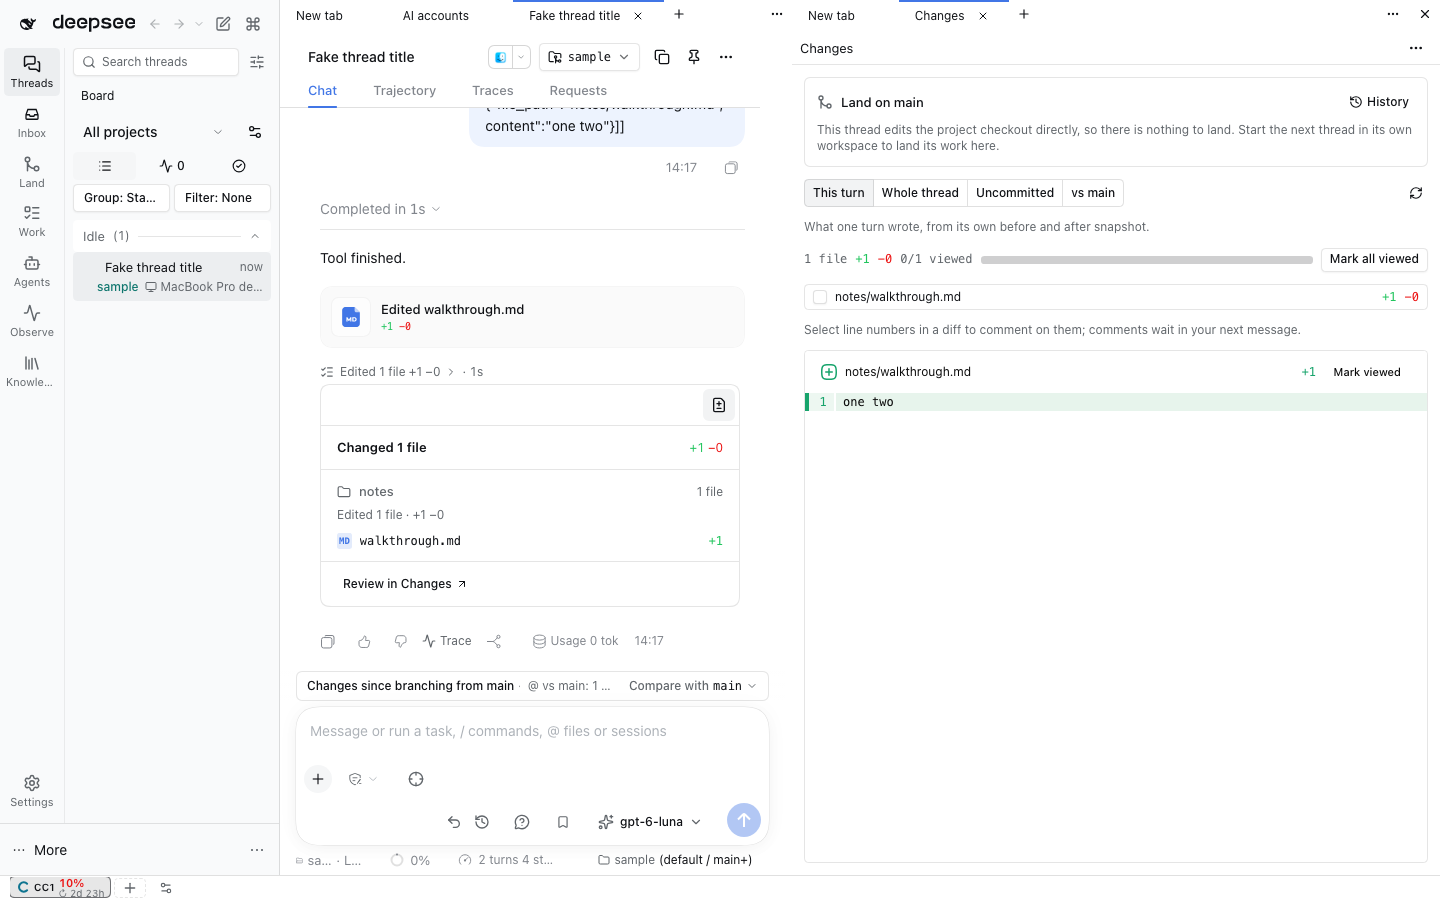
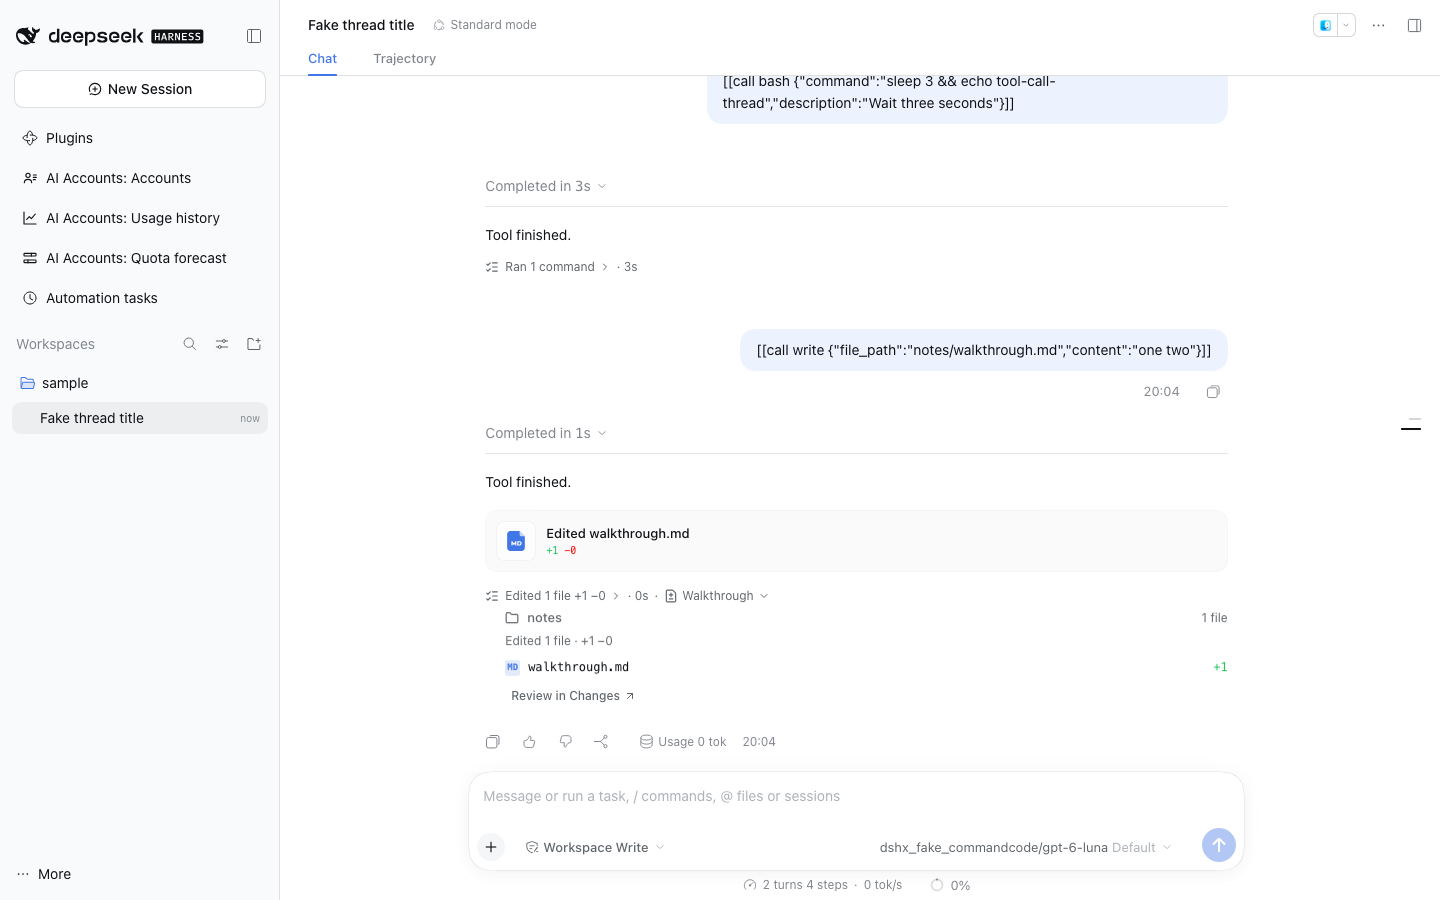
fix(turn-summary): make the walkthrough a labelled toggle in the turn summary row
The walkthrough rendered a plugin-ui ActivityDock, whose folded state is one
32px icon button. Under the last turn of a thread that button is the only thing
between the transcript and the composer, so a folded walkthrough read as an
orphaned icon floating above the chat composer, and the open card pushed a
second bordered panel into the same slot.

Move it into the summary row: the row that already says 'Edited 3 files · ran 6
commands · 1m 12s' now ends with a 'Walkthrough' toggle beside the file-diff
icon, and the grouped file list with Review in Changes opens under that row,
closed by default. Nothing floats above the composer, and the toggle keeps its
label when folded. The journey opens the toggle before naming the written
file.

diff --git a/plugins/@dshfiles/turn-summary/src/turn-walkthrough.tsx b/plugins/@dshfiles/turn-summary/src/turn-walkthrough.tsx
@@ -1,69 +1,47 @@
-import { ActivityDock, DockChanges } from '@dshfiles/plugin-ui/components/motion/activity-dock'
+import { DockChanges } from '@dshfiles/plugin-ui/components/motion/activity-dock'
 import { Button } from '@dshfiles/plugin-ui/components/ui/button'
-import { ArrowUpRightIcon, FileDiffIcon, FolderIcon } from '@dshfiles/plugin-ui/icons'
-import { useState } from 'react'
+import { ArrowUpRightIcon, ChevronDownIcon, ChevronRightIcon, FileDiffIcon, FolderIcon } from '@dshfiles/plugin-ui/icons'
 import type { TurnActivitySummary } from './turn-activity.js'
 import { TurnWalkthroughModel } from './turn-walkthrough-model.js'
 
-const TAB = 'changes'
+/** Whether the turn edited files, so the summary row offers its walkthrough at all. */
+export const hasWalkthrough = (summary: TurnActivitySummary): boolean => summary.editedFileStats.length > 0
 
 /**
- * The walkthrough card under a turn that edited files: the files by folder, each folder's one-line summary, and the
- * way into the Changes view for that turn. It starts open; its icon folds it to one button.
+ * The walkthrough toggle inside the turn summary row: a labelled control, so a closed walkthrough is never a lone
+ * icon floating above the composer.
  */
-export const TurnWalkthrough = (props: {
-  readonly summary: TurnActivitySummary
-  readonly turn: number
-  readonly openChanges: (() => void) | undefined
-}): JSX.Element | null => {
-  const [open, setOpen] = useState<string | null>(TAB)
-  const files = props.summary.editedFileStats
-  if (files.length === 0) return null
-  const groups = TurnWalkthroughModel.groups(files)
-  const added = files.reduce((total, file) => total + file.added, 0)
-  const removed = files.reduce((total, file) => total + file.removed, 0)
-  return (
-    <div className="dshx-root dshx:@container dshx:flex dshx:w-full dshx:min-w-0" data-dshfiles-turn-walkthrough="">
-      <ActivityDock
-        aria-label={`Turn ${String(props.turn)} walkthrough`}
-        value={open}
-        onValueChange={setOpen}
-        panelWidth={420}
-        className="dshx:mr-auto dshx:ml-0 dshx:shadow-none"
-        tabs={[
-          {
-            id: TAB,
-            label: 'Walkthrough',
-            icon: <FileDiffIcon />,
-            title: `Changed ${String(files.length)} ${files.length === 1 ? 'file' : 'files'}`,
-            meta:
-              added + removed > 0 ? (
-                <>
-                  <span className="dshx:text-success">+{added}</span> <span className="dshx:text-destructive">−{removed}</span>
-                </>
-              ) : undefined,
-            content: (
-              <DockChanges
-                className="dshx:gap-3"
-                groups={groups.map(group => ({
-                  id: group.directory,
-                  label: group.directory,
-                  icon: <FolderIcon />,
-                  hint: group.summary,
-                  files: group.files,
-                }))}
-              />
-            ),
-            footer:
-              props.openChanges === undefined ? undefined : (
-                <Button type="button" variant="ghost" size="xs" onClick={props.openChanges}>
-                  Review in Changes
-                  <ArrowUpRightIcon aria-hidden className="dshx:size-3" />
-                </Button>
-              ),
-          },
-        ]}
-      />
-    </div>
-  )
-}
+export const TurnWalkthroughToggle = (props: { readonly open: boolean; readonly onToggle: () => void }): JSX.Element => (
+  <button
+    aria-expanded={props.open}
+    className="dshx:flex dshx:shrink-0 dshx:items-center dshx:gap-1 dshx:hover:text-foreground"
+    onClick={props.onToggle}
+    type="button"
+  >
+    <FileDiffIcon aria-hidden className="dshx:size-3.5 dshx:shrink-0" />
+    <span>Walkthrough</span>
+    {props.open ? <ChevronDownIcon aria-hidden className="dshx:size-3" /> : <ChevronRightIcon aria-hidden className="dshx:size-3" />}
+  </button>
+)
+
+/** The opened walkthrough: the changed files by folder and the way into that turn's Changes view. */
+export const TurnWalkthroughList = (props: { readonly summary: TurnActivitySummary; readonly openChanges: (() => void) | undefined }): JSX.Element => (
+  <div className="dshx:flex dshx:min-w-0 dshx:flex-col dshx:items-start dshx:gap-2 dshx:pl-5" data-dshfiles-turn-walkthrough="">
+    <DockChanges
+      className="dshx:w-full dshx:gap-3"
+      groups={TurnWalkthroughModel.groups(props.summary.editedFileStats).map(group => ({
+        id: group.directory,
+        label: group.directory,
+        icon: <FolderIcon />,
+        hint: group.summary,
+        files: group.files,
+      }))}
+    />
+    {props.openChanges === undefined ? null : (
+      <Button type="button" variant="ghost" size="xs" onClick={props.openChanges}>
+        Review in Changes
+        <ArrowUpRightIcon aria-hidden className="dshx:size-3" />
+      </Button>
+    )}
+  </div>
+)

diff --git a/plugins/@dshfiles/turn-summary/src/turn-summary-line.tsx b/plugins/@dshfiles/turn-summary/src/turn-summary-line.tsx
@@ -6,7 +6,7 @@ import { Fragment, useState, useSyncExternalStore, type ReactNode } from 'react'
 import { turnSummarySettings } from './settings.js'
 import { TURN_ACTIVITY_KEY } from './turn-activity-node.js'
 import { TurnActivity, type TurnActivitySummary, type TurnSegment } from './turn-activity.js'
-import { TurnWalkthrough } from './turn-walkthrough.js'
+import { hasWalkthrough, TurnWalkthroughList, TurnWalkthroughToggle } from './turn-walkthrough.js'
 
 type OpenList = 'files' | 'commands' | 'failures'
 
@@ -80,6 +80,7 @@ export const TurnSummaryLine = (props: {
   const summary = useSyncExternalStore(source.subscribe, source.getSnapshot)
   const settings = useSettings(turnSummarySettings).value
   const [open, setOpen] = useState<OpenList | undefined>(undefined)
+  const [walkthroughOpen, setWalkthroughOpen] = useState(false)
   if (summary === undefined || settings?.enabled === false || TurnActivity.isEmpty(summary)) return null
   const segments = TurnActivity.segments(summary, {
     includeReads: settings?.includeReads !== false,
@@ -95,6 +96,7 @@ export const TurnSummaryLine = (props: {
   const end = props.turn.end?.time
   const duration = settings?.duration !== false && start !== undefined && end !== undefined ? TurnActivity.duration(end - start) : undefined
   const changesSeq = summary.changesSeq
+  const walkthrough = settings?.walkthrough !== false && hasWalkthrough(summary)
   const label = (segment: TurnSegment, index: number): string => (index === 0 ? segment.text.charAt(0).toUpperCase() + segment.text.slice(1) : segment.text)
   const segmentView = (segment: TurnSegment, index: number): ReactNode => {
     const list = segment.key === 'files' || segment.key === 'commands' ? segment.key : undefined
@@ -135,15 +137,20 @@ export const TurnSummaryLine = (props: {
             {duration}
           </span>
         )}
+        {walkthrough ? (
+          <>
+            <span aria-hidden>·</span>
+            <TurnWalkthroughToggle open={walkthroughOpen} onToggle={() => setWalkthroughOpen(current => !current)} />
+          </>
+        ) : null}
       </div>
       {open === 'files' && <FileList openFile={props.openFile} summary={summary} />}
       {open === 'commands' && <CommandList onlyFailed={false} summary={summary} />}
       {open === 'failures' && canList && <CommandList onlyFailed summary={summary} />}
-      {settings?.walkthrough !== false && (
-        <TurnWalkthrough
+      {walkthrough && walkthroughOpen && (
+        <TurnWalkthroughList
           openChanges={changesSeq === undefined ? undefined : () => props.openChanges({ seq: changesSeq, turn: props.turn.turn })}
           summary={summary}
-          turn={props.turn.turn}
         />
       )}
     </div>

diff --git a/tooling/dshx/e2e/support/plugin-journeys/turn-summary.steps.ts b/tooling/dshx/e2e/support/plugin-journeys/turn-summary.steps.ts
@@ -29,12 +29,14 @@ When('the fake model writes a file in a fresh workspace', async ({ page }: { pag
   await runInFreshWorkspace(page, WRITE_FILE)
 })
 
-Then('the finished turn shows a walkthrough card naming the written file', async ({ page }: { page: Page }) => {
-  const card = page.locator('[data-dshfiles-turn-walkthrough]')
+Then('the finished turn opens a walkthrough naming the written file', async ({ page }: { page: Page }) => {
+  const toggle = page.getByRole('button', { name: 'Walkthrough' })
   await recordAssertion(page, 'turn-summary-walkthrough-names-written-file', async () => {
-    await expect(card).toBeVisible({ timeout: 60_000 })
-    await expect(card).toContainText('Changed 1 file')
-    await expect(card).toContainText('walkthrough.md')
+    await expect(toggle).toBeVisible({ timeout: 60_000 })
+    await expect(toggle).toHaveAttribute('aria-expanded', 'false')
+    await toggle.click()
+    await expect(toggle).toHaveAttribute('aria-expanded', 'true')
+    await expect(page.locator('[data-dshfiles-turn-walkthrough]')).toContainText('walkthrough.md')
   })
   await finishJourneyAssertions(page)
 })

diff --git a/plugins/@dshfiles/turn-summary/src/settings.ts b/plugins/@dshfiles/turn-summary/src/settings.ts
@@ -15,7 +15,7 @@ export const turnSummarySettings = defineSettings({
     openLists: Schema.boolean().default(true).description('Let the edited-file and command counts open their lists; each file opens in the editor.'),
     walkthrough: Schema.boolean()
       .default(true)
-      .description('After a turn that edited files, show a walkthrough card: the changed files by folder and a link to the Changes view.'),
+      .description('After a turn that edited files, show a walkthrough row: the changed files by folder and a link to the Changes view.'),
   }),
   applies: 'live',
 })

diff --git a/plugins/@dshfiles/turn-summary/README.md b/plugins/@dshfiles/turn-summary/README.md
@@ -2,7 +2,7 @@
 
 ![A summary line under each finished turn](docs/screenshots/turn-summary-line.png)
 
-![A walkthrough card after a turn that changed code](docs/screenshots/turn-walkthrough.png)
+![A walkthrough opened under a turn that changed code](docs/screenshots/turn-walkthrough.png)
 
 A footer under each finished turn that says what the agent did with tools:
 
@@ -14,10 +14,10 @@ A footer under each finished turn that says what the agent did with tools:
 - The red **failure count** opens the failed commands and how each ended: `exit 1`, `signal SIGKILL`, `no exit code`, or `error` when the tool rejected the call.
 - **Duration** is the turn's wall time, from `turn/start` to `turn/end`.
 
-After a turn that edited files, a **walkthrough card** (plugin-ui `ActivityDock` with `DockChanges`) lists the changed
-files by folder, each folder with a one-line summary (`Edited 2 files · +40 −3`), and **Review in Changes** opens that
-turn's changed-files review in the right pane: pulls-review's Changes facet when it is loaded, else the native review
-tab. Its icon folds it to one button.
+After a turn that edited files, a **Walkthrough** row opens a grouped view of the changed files by folder, each folder
+with a one-line summary (`Edited 2 files · +40 −3`), and **Review in Changes** opens that turn's changed-files review in
+the right pane: pulls-review's Changes facet when it is loaded, else the native review tab. It is a row in the turn
+footer, closed by default, so nothing floats above the composer.
 
 Built with dshx (no port). Run `pnpm build`, `pnpm test` and `pnpm typecheck` from this package.
 
@@ -34,7 +34,7 @@ All apply live.
 | `testResults`  | `true`  | Show passed / total tests from the last test-runner summary.   |
 | `duration`     | `true`  | Show how long the turn took.                                   |
 | `openLists`    | `true`  | Let the edited-file and command counts open their lists.       |
-| `walkthrough`  | `true`  | Show the walkthrough card after a turn that edited files.      |
+| `walkthrough`  | `true`  | Show the walkthrough row after a turn that edited files.       |
 
 ## How it works
 

diff --git a/docs/ade-ux/migration-map.md b/docs/ade-ux/migration-map.md
@@ -480,7 +480,7 @@ cards inline in the active thread; 25 features.
 | chat/windowed-transcript: Open a thread on its latest messages | transcriptCard | transcript: windowed rendering |
 | html-render/html-page-card: Agent-published HTML page as a sandboxed card | transcriptCard | transcript: html_render card |
 | html-render/html-preview-card: Workspace HTML file shown as a sandboxed card | transcriptCard | transcript: html_preview card |
-| jj-integration/turn-end-integrate: Integrate from the end of a turn | transcriptCard | transcript: turn tail › Land on main |
+| jj-integration/turn-end-integrate: Integrate from the end of a turn | transcriptCard | transcript: turn tail › Land on main › revisions |
 | secret-catalog/agent-secret-request: Let an agent ask the user to store a secret | transcriptCard | transcript: turn tail › Secret request |
 | secret-catalog/backlog-jev-chat-setup: Set up a Jev key from chat | transcriptCard | transcript: turn tail › Set up missing secrets |
 | test-runs/test-run-card: Vitest runs as a test-results card | transcriptCard | transcript: Vitest results card |
@@ -488,7 +488,7 @@ cards inline in the active thread; 25 features.
 | tool-meta/tool-call-timing: Start time and duration on every tool call | transcriptCard | transcript: tool call timing |
 | traces/trace-transcript-links: Span ↔ transcript links | transcriptCard | transcript: Open the trace of turn |
 | turn-summary/turn-summary-line: A summary footer under each finished turn | transcriptCard | transcript: turn summary footer |
-| turn-summary/turn-walkthrough: A walkthrough card after a turn that changed code | transcriptCard | transcript: turn walkthrough card |
+| turn-summary/turn-walkthrough: A walkthrough under a turn that changed code | transcriptCard | transcript: turn walkthrough row |
 | user-questions/answered-question-stays-closed: An answered question form stays closed while its reply waits for admission | transcriptCard | transcript: question form |
 | user-questions/markdown-question: Markdown questions with sandboxed HTML previews | transcriptCard | transcript: question form |
 

diff --git a/docs/ade-ux/README.md b/docs/ade-ux/README.md
@@ -56,8 +56,8 @@ owner.
 **Thread loop (Phase 4)**
 
 - [ ] Done / Restore releases and recreates the workspace (C3 in [t3code parity](../../plans/t3code-parity.md)).
-- [x] ~~Walkthrough card~~: turn-summary renders `ActivityDock` after a turn that changed files, with Review in
-      Changes (setting `walkthrough`).
+- [x] ~~Walkthrough~~: turn-summary renders a Walkthrough row under a turn that changed files: the files by folder
+      and Review in Changes (setting `walkthrough`).
 - [x] ~~Step timestamps and durations~~: already shipped by `@dshfiles/tool-meta` on every tool card.
 - [ ] git-worktree workspaces get only the This-turn Changes scope (the VCS port has no diff verb); no
       rebase-without-land verb (History's previewed rebase stands in).
